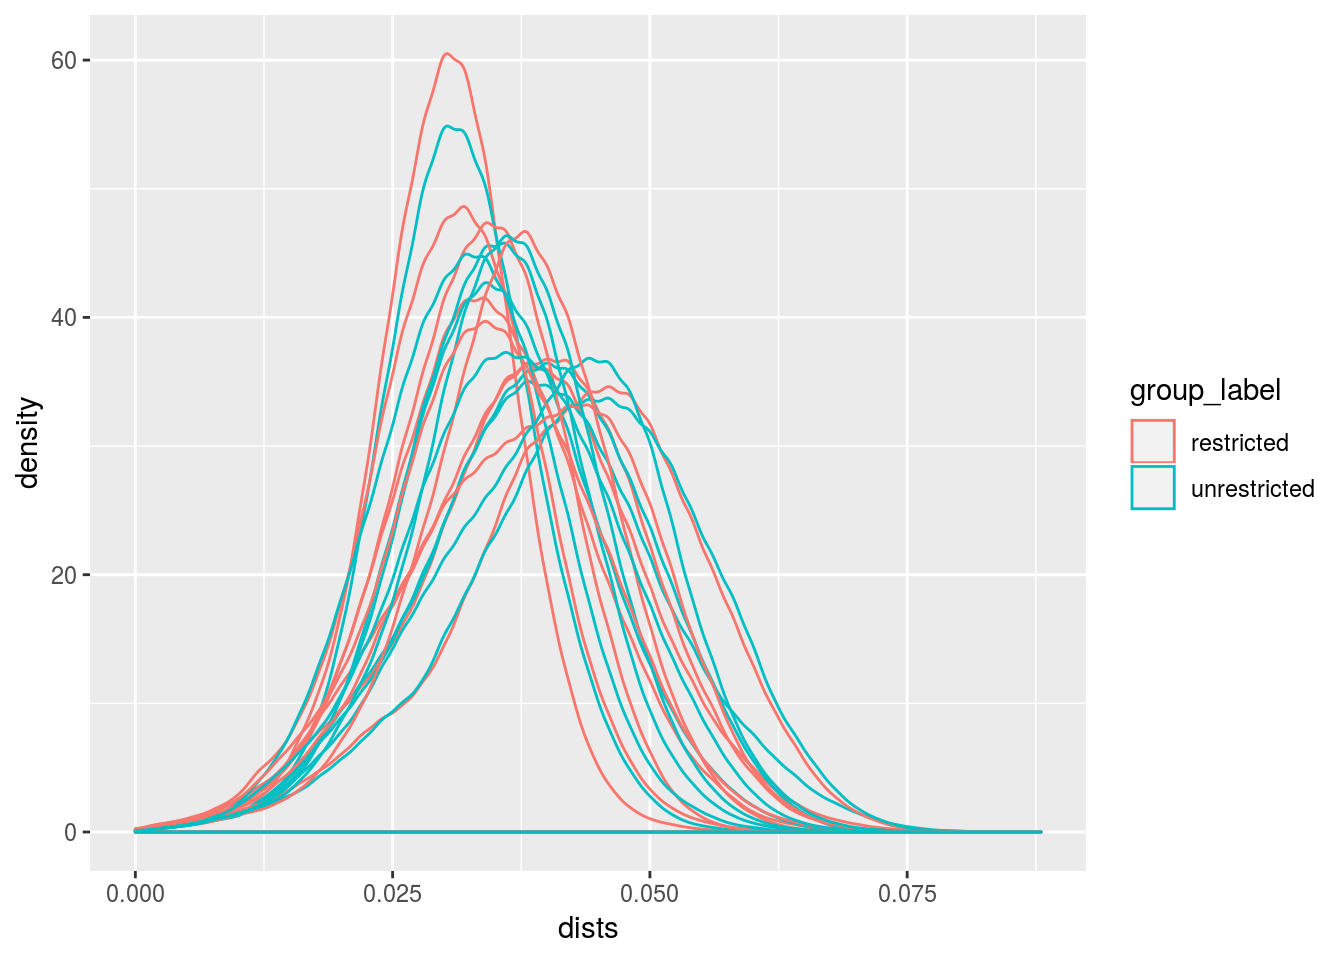
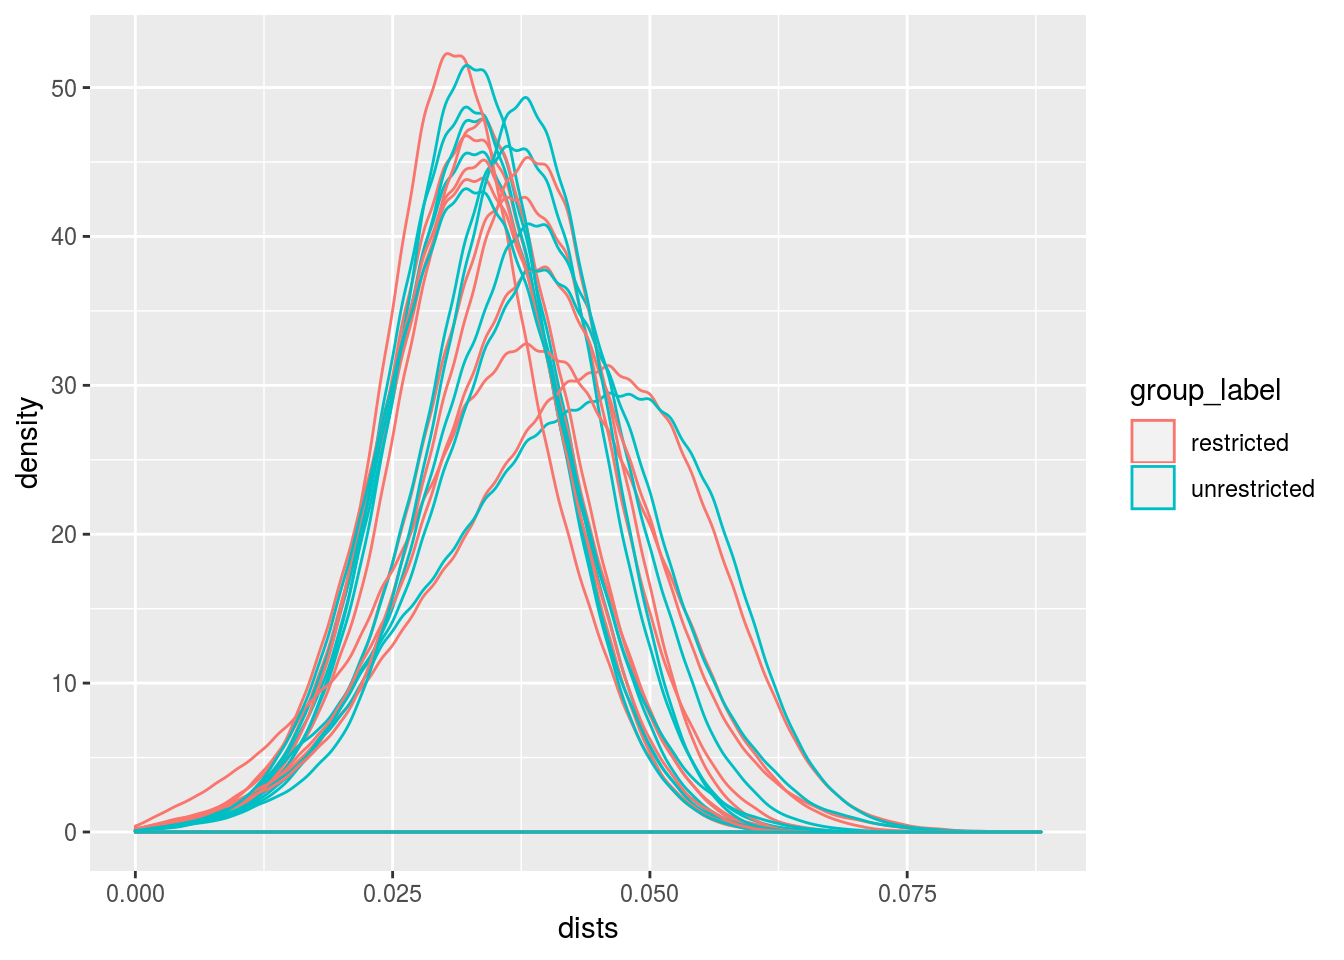
ReRunning with cache folder ignored from git

diff --git a/first_useful_comparison/_book/simulation-results.html b/first_useful_comparison/_book/simulation-results.html
@@ -94,13 +94,13 @@
 <tbody>
 <tr class="odd">
 <td align="left">restricted</td>
-<td align="right">0.0359</td>
-<td align="right">0.0000717</td>
+<td align="right">0.0352</td>
+<td align="right">0.0000703</td>
 </tr>
 <tr class="even">
 <td align="left">unrestricted</td>
-<td align="right">0.0369</td>
-<td align="right">0.0000738</td>
+<td align="right">0.0353</td>
+<td align="right">0.0000706</td>
 </tr>
 </tbody>
 </table>
@@ -133,29 +133,29 @@ Figure 2.1: Density plot of the pariwise distances in the last generation
 <td align="left">restricted</td>
 <td align="left">0</td>
 <td align="left">0.022</td>
-<td align="left">0.028</td>
+<td align="left">0.026</td>
 <td align="left">0.03</td>
+<td align="left">0.032</td>
 <td align="left">0.034</td>
-<td align="left">0.036</td>
 <td align="left">0.038</td>
-<td align="left">0.042</td>
+<td align="left">0.04</td>
 <td align="left">0.044</td>
-<td align="left">0.05</td>
+<td align="left">0.048</td>
 <td align="left">0.088</td>
 </tr>
 <tr class="even">
 <td align="left">unrestricted</td>
 <td align="left">0</td>
-<td align="left">0.024</td>
+<td align="left">0.022</td>
 <td align="left">0.028</td>
+<td align="left">0.03</td>
 <td align="left">0.032</td>
-<td align="left">0.034</td>
 <td align="left">0.036</td>
+<td align="left">0.038</td>
 <td align="left">0.04</td>
-<td align="left">0.042</td>
-<td align="left">0.046</td>
-<td align="left">0.05</td>
-<td align="left">0.088</td>
+<td align="left">0.044</td>
+<td align="left">0.048</td>
+<td align="left">0.084</td>
 </tr>
 </tbody>
 </table>
@@ -288,8 +288,8 @@ Figure 2.1: Density plot of the pariwise distances in the last generation
 <td align="left">restricted</td>
 <td align="right">1</td>
 <td align="right">20</td>
-<td align="right">1.150000</td>
-<td align="right">0.0023000</td>
+<td align="right">0.950000</td>
+<td align="right">0.0019000</td>
 <td align="right">1.0000000</td>
 <td align="right">1.0000000</td>
 </tr>
@@ -297,8 +297,8 @@ Figure 2.1: Density plot of the pariwise distances in the last generation
 <td align="left">restricted</td>
 <td align="right">2</td>
 <td align="right">40</td>
-<td align="right">2.475000</td>
-<td align="right">0.0049500</td>
+<td align="right">2.150000</td>
+<td align="right">0.0043000</td>
 <td align="right">1.0000000</td>
 <td align="right">1.0000000</td>
 </tr>
@@ -306,73 +306,73 @@ Figure 2.1: Density plot of the pariwise distances in the last generation
 <td align="left">restricted</td>
 <td align="right">3</td>
 <td align="right">80</td>
-<td align="right">3.512500</td>
-<td align="right">0.0070250</td>
+<td align="right">3.112500</td>
+<td align="right">0.0062250</td>
 <td align="right">1.0000000</td>
 <td align="right">1.0000000</td>
 </tr>
 <tr class="odd">
 <td align="left">restricted</td>
 <td align="right">4</td>
-<td align="right">146</td>
-<td align="right">4.431507</td>
-<td align="right">0.0088630</td>
-<td align="right">0.5291606</td>
-<td align="right">0.1046721</td>
+<td align="right">138</td>
+<td align="right">4.043478</td>
+<td align="right">0.0080870</td>
+<td align="right">0.5679852</td>
+<td align="right">0.1056368</td>
 </tr>
 <tr class="even">
 <td align="left">restricted</td>
 <td align="right">5</td>
-<td align="right">262</td>
-<td align="right">5.427481</td>
-<td align="right">0.0108550</td>
-<td align="right">0.5148926</td>
-<td align="right">0.1011163</td>
+<td align="right">245</td>
+<td align="right">5.053061</td>
+<td align="right">0.0101061</td>
+<td align="right">0.5608047</td>
+<td align="right">0.1001947</td>
 </tr>
 <tr class="odd">
 <td align="left">restricted</td>
 <td align="right">6</td>
-<td align="right">480</td>
-<td align="right">6.383333</td>
-<td align="right">0.0127667</td>
-<td align="right">0.5518723</td>
-<td align="right">0.1001588</td>
+<td align="right">444</td>
+<td align="right">6.110360</td>
+<td align="right">0.0122207</td>
+<td align="right">0.5301969</td>
+<td align="right">0.1007164</td>
 </tr>
 <tr class="even">
 <td align="left">restricted</td>
 <td align="right">7</td>
-<td align="right">860</td>
-<td align="right">7.355814</td>
-<td align="right">0.0147116</td>
-<td align="right">0.5455847</td>
-<td align="right">0.1006875</td>
+<td align="right">797</td>
+<td align="right">7.074028</td>
+<td align="right">0.0141481</td>
+<td align="right">0.5465060</td>
+<td align="right">0.1017769</td>
 </tr>
 <tr class="odd">
 <td align="left">restricted</td>
 <td align="right">8</td>
-<td align="right">1522</td>
-<td align="right">8.271354</td>
-<td align="right">0.0165427</td>
-<td align="right">0.5486109</td>
-<td align="right">0.1002651</td>
+<td align="right">1439</td>
+<td align="right">8.055594</td>
+<td align="right">0.0161112</td>
+<td align="right">0.5339076</td>
+<td align="right">0.1003958</td>
 </tr>
 <tr class="even">
 <td align="left">restricted</td>
 <td align="right">9</td>
-<td align="right">2763</td>
-<td align="right">9.271082</td>
-<td align="right">0.0185422</td>
-<td align="right">0.5507249</td>
-<td align="right">0.1003370</td>
+<td align="right">2601</td>
+<td align="right">9.049981</td>
+<td align="right">0.0181000</td>
+<td align="right">0.5529199</td>
+<td align="right">0.1004061</td>
 </tr>
 <tr class="odd">
 <td align="left">restricted</td>
 <td align="right">10</td>
-<td align="right">4898</td>
-<td align="right">10.241731</td>
-<td align="right">0.0204835</td>
-<td align="right">0.5519231</td>
-<td align="right">0.1000141</td>
+<td align="right">4668</td>
+<td align="right">10.055913</td>
+<td align="right">0.0201118</td>
+<td align="right">0.5505513</td>
+<td align="right">0.1005993</td>
 </tr>
 <tr class="even">
 <td align="left">unrestricted</td>
@@ -387,8 +387,8 @@ Figure 2.1: Density plot of the pariwise distances in the last generation
 <td align="left">unrestricted</td>
 <td align="right">1</td>
 <td align="right">20</td>
-<td align="right">1.150000</td>
-<td align="right">0.0023000</td>
+<td align="right">0.950000</td>
+<td align="right">0.0019000</td>
 <td align="right">1.0000000</td>
 <td align="right">1.0000000</td>
 </tr>
@@ -396,8 +396,8 @@ Figure 2.1: Density plot of the pariwise distances in the last generation
 <td align="left">unrestricted</td>
 <td align="right">2</td>
 <td align="right">40</td>
-<td align="right">2.475000</td>
-<td align="right">0.0049500</td>
+<td align="right">2.150000</td>
+<td align="right">0.0043000</td>
 <td align="right">1.0000000</td>
 <td align="right">1.0000000</td>
 </tr>
@@ -405,8 +405,8 @@ Figure 2.1: Density plot of the pariwise distances in the last generation
 <td align="left">unrestricted</td>
 <td align="right">3</td>
 <td align="right">80</td>
-<td align="right">3.512500</td>
-<td align="right">0.0070250</td>
+<td align="right">3.112500</td>
+<td align="right">0.0062250</td>
 <td align="right">1.0000000</td>
 <td align="right">1.0000000</td>
 </tr>
@@ -414,64 +414,64 @@ Figure 2.1: Density plot of the pariwise distances in the last generation
 <td align="left">unrestricted</td>
 <td align="right">4</td>
 <td align="right">160</td>
-<td align="right">4.512500</td>
-<td align="right">0.0090250</td>
-<td align="right">0.4885134</td>
-<td align="right">0.0212028</td>
+<td align="right">4.068750</td>
+<td align="right">0.0081375</td>
+<td align="right">0.4971493</td>
+<td align="right">0.0043554</td>
 </tr>
 <tr class="odd">
 <td align="left">unrestricted</td>
 <td align="right">5</td>
 <td align="right">320</td>
-<td align="right">5.521875</td>
-<td align="right">0.0110438</td>
-<td align="right">0.4681508</td>
-<td align="right">0.0006413</td>
+<td align="right">5.034375</td>
+<td align="right">0.0100688</td>
+<td align="right">0.5006963</td>
+<td align="right">0.0018603</td>
 </tr>
 <tr class="even">
 <td align="left">unrestricted</td>
 <td align="right">6</td>
 <td align="right">640</td>
-<td align="right">6.515625</td>
-<td align="right">0.0130312</td>
-<td align="right">0.4971727</td>
-<td align="right">0.0018974</td>
+<td align="right">6.056250</td>
+<td align="right">0.0121125</td>
+<td align="right">0.4893675</td>
+<td align="right">0.0013513</td>
 </tr>
 <tr class="odd">
 <td align="left">unrestricted</td>
 <td align="right">7</td>
 <td align="right">1280</td>
-<td align="right">7.537500</td>
-<td align="right">0.0150750</td>
-<td align="right">0.4998801</td>
-<td align="right">0.0013323</td>
+<td align="right">7.057812</td>
+<td align="right">0.0141156</td>
+<td align="right">0.4941043</td>
+<td align="right">0.0007394</td>
 </tr>
 <tr class="even">
 <td align="left">unrestricted</td>
 <td align="right">8</td>
 <td align="right">2560</td>
-<td align="right">8.505078</td>
-<td align="right">0.0170102</td>
-<td align="right">0.4894635</td>
-<td align="right">0.0006429</td>
+<td align="right">8.055078</td>
+<td align="right">0.0161102</td>
+<td align="right">0.4940215</td>
+<td align="right">0.0010767</td>
 </tr>
 <tr class="odd">
 <td align="left">unrestricted</td>
 <td align="right">9</td>
 <td align="right">5120</td>
-<td align="right">9.493359</td>
-<td align="right">0.0189867</td>
-<td align="right">0.5038178</td>
-<td align="right">0.0001055</td>
+<td align="right">9.023242</td>
+<td align="right">0.0180465</td>
+<td align="right">0.5045879</td>
+<td align="right">0.0000631</td>
 </tr>
 <tr class="even">
 <td align="left">unrestricted</td>
 <td align="right">10</td>
-<td align="right">4898</td>
-<td align="right">10.492446</td>
-<td align="right">0.0209849</td>
-<td align="right">0.4970358</td>
-<td align="right">0.0001106</td>
+<td align="right">4668</td>
+<td align="right">9.979863</td>
+<td align="right">0.0199597</td>
+<td align="right">0.4952988</td>
+<td align="right">0.0001477</td>
 </tr>
 </tbody>
 </table>
